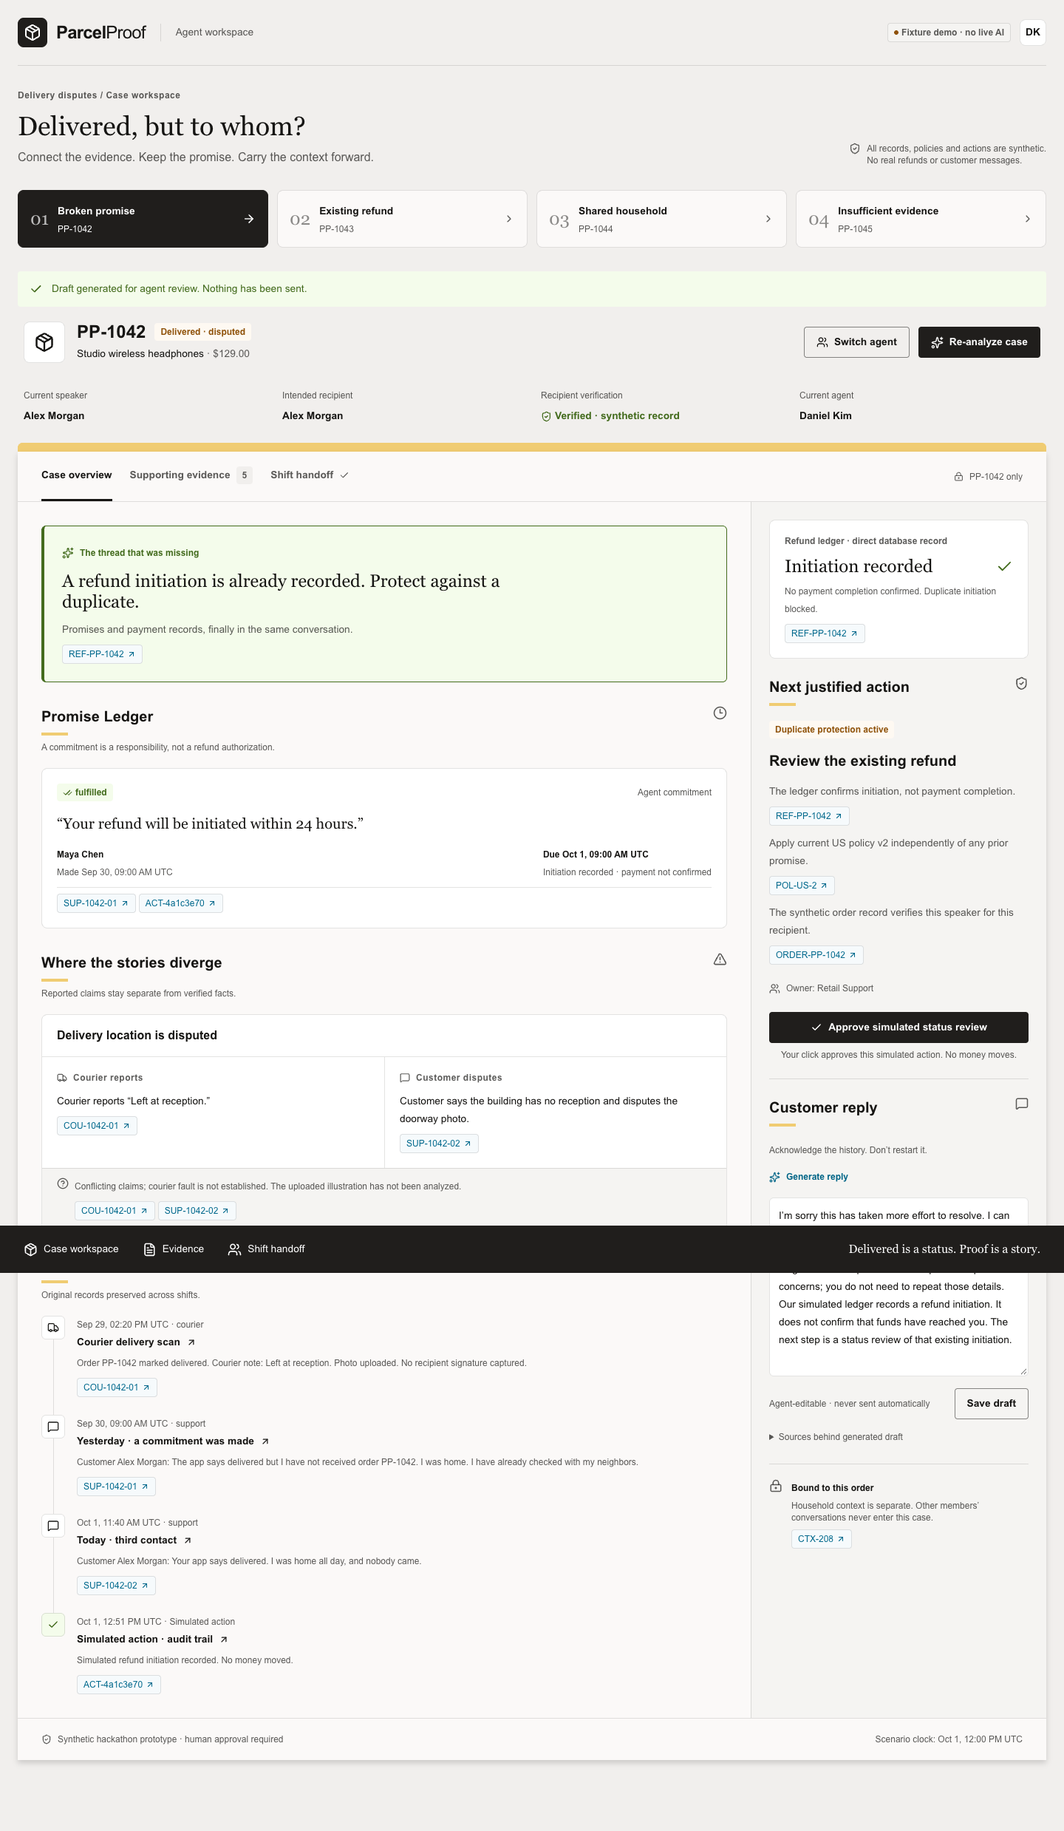
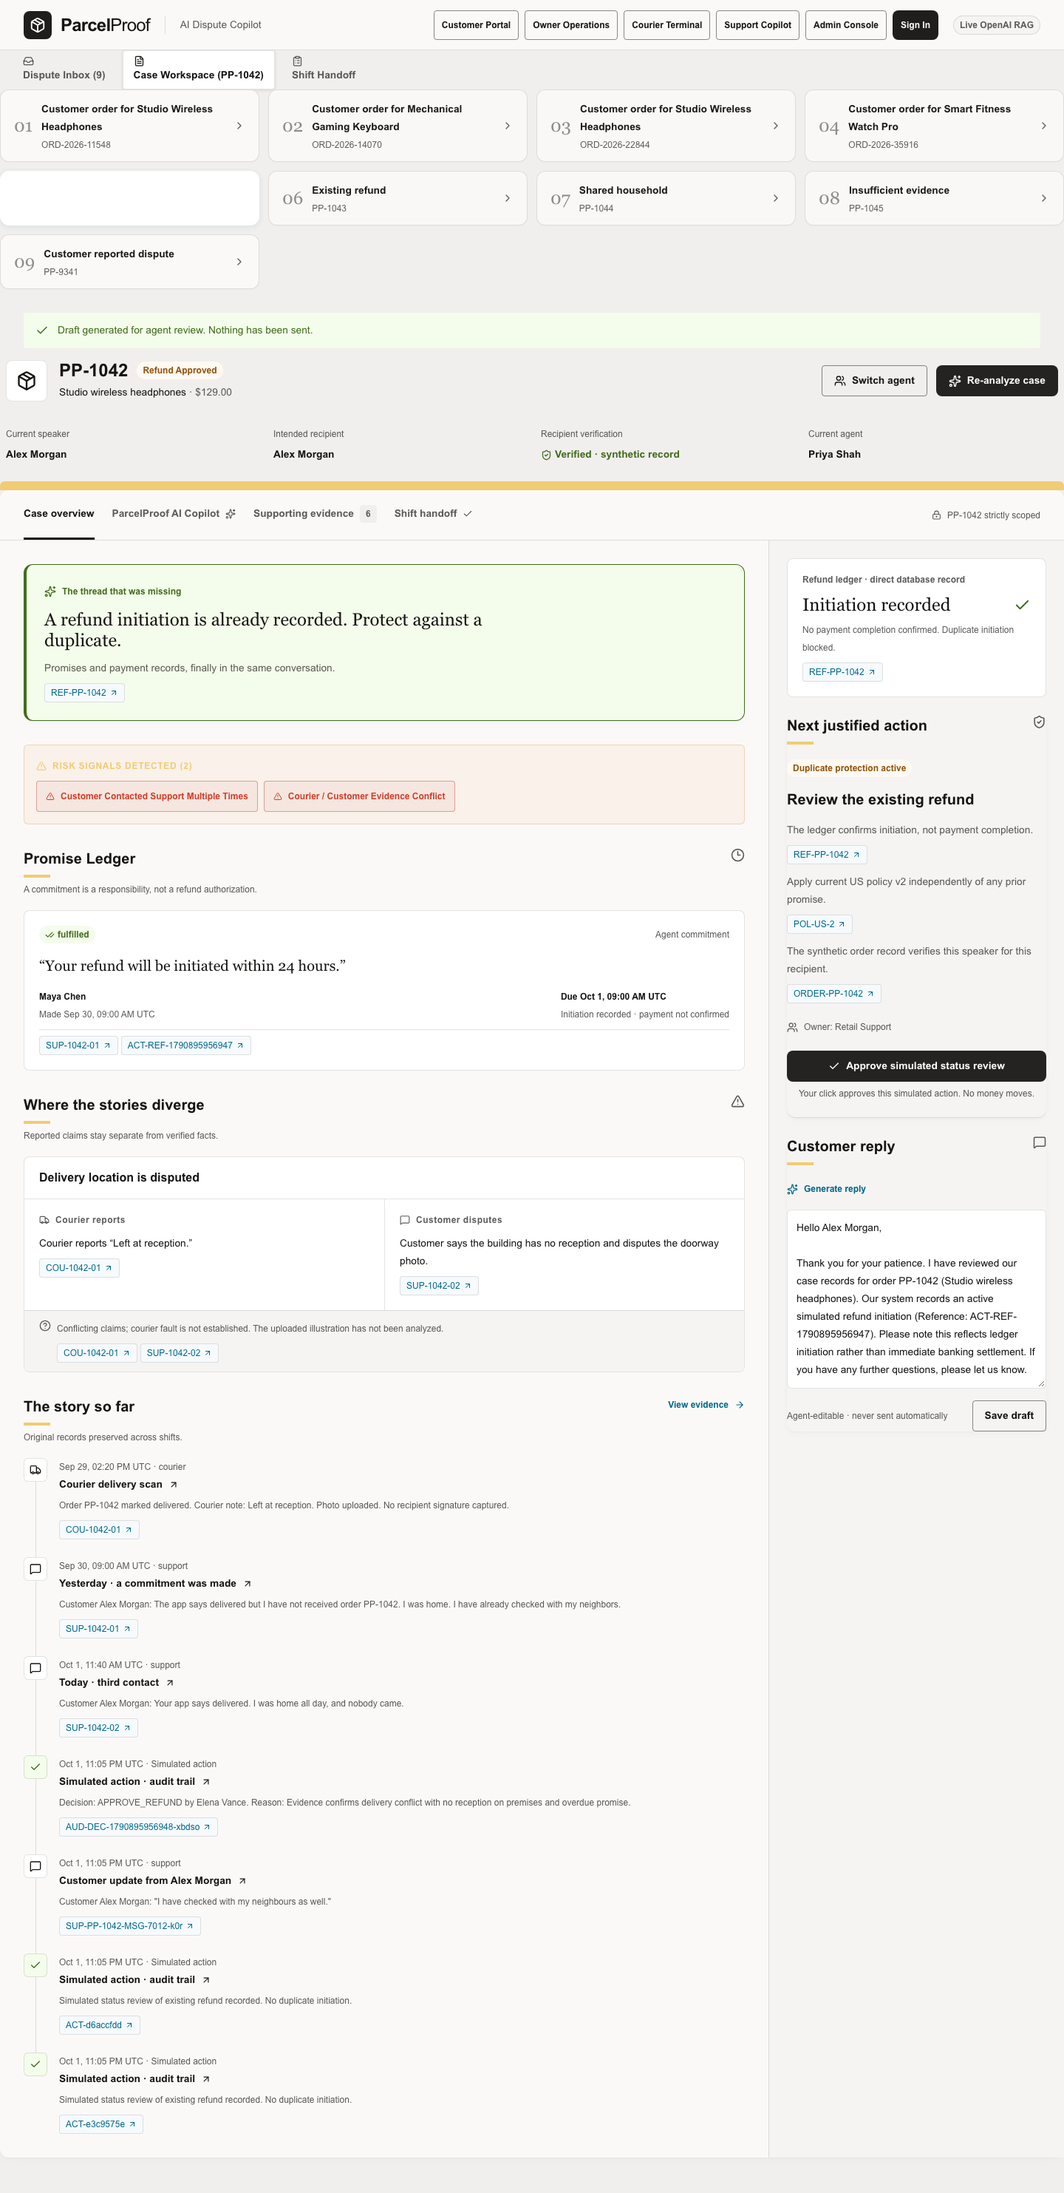
feat(integration): full end-to-end multi-role data synchronization and live OpenRouter grounding

diff --git a/tests/browser/workflow.spec.ts b/tests/browser/workflow.spec.ts
@@ -1,20 +1,48 @@
 import { test, expect } from '@playwright/test';
-test('agent can analyze, inspect, draft, approve and hand off the case',async({page})=>{
- await page.goto('/');await expect(page.getByRole('heading',{name:'Delivered, but to whom?'})).toBeVisible();
- await page.getByRole('button',{name:/Analyze case|Re-analyze case/}).click();await expect(page.getByRole('heading',{name:/refund was promised yesterday|refund initiation is already recorded/})).toBeVisible();
- await page.getByRole('button',{name:'SUP-1042-01',exact:true}).first().click();await expect(page.getByRole('dialog')).toBeVisible();await expect(page.getByRole('dialog')).toContainText('Your refund will be initiated within 24 hours.');await page.getByRole('button',{name:'Close source'}).click();
- await page.getByRole('button',{name:'Generate reply',exact:true}).click();await expect(page.getByLabel('Editable customer reply draft')).toContainText('neighbors');
- await page.screenshot({path:'docs/dashboard-desktop.png',fullPage:true});
- await page.getByRole('button',{name:/Approve simulated refund|Approve simulated status review/}).click();await expect(page.getByRole('status')).toContainText('Simulated action recorded');
- await page.getByRole('button',{name:'Switch agent',exact:true}).click();await expect(page.getByRole('heading',{name:'A new agent. The same memory.'})).toBeVisible();await expect(page.getByText('Persisted in SQLite')).toBeVisible();await page.reload();await page.getByRole('button',{name:'Shift handoff',exact:true}).first().click();await expect(page.getByText('Persisted in SQLite')).toBeVisible();
- await page.screenshot({path:'docs/dashboard-handoff.png',fullPage:true});
+
+test('agent can analyze, inspect, draft, approve and hand off the case', async ({ page }) => {
+  await page.goto('/');
+  await expect(page.getByRole('heading', { name: 'PP-1042' })).toBeVisible({ timeout: 15000 });
+  await page.getByRole('button', { name: /Analyze case|Re-analyze case/ }).click();
+  await expect(page.getByRole('heading', { name: /refund was promised yesterday|refund initiation is already recorded/ })).toBeVisible({ timeout: 15000 });
+  await page.getByRole('button', { name: /SUP-1042-01/ }).first().click();
+  await expect(page.getByRole('dialog')).toBeVisible({ timeout: 15000 });
+  await expect(page.getByRole('dialog')).toContainText('Your refund will be initiated within 24 hours.');
+  await page.getByRole('button', { name: 'Close source' }).click();
+  await page.getByRole('button', { name: 'Generate reply' }).click();
+  await expect(page.getByLabel('Editable customer reply draft')).toHaveValue(/Alex Morgan|headphones|refund/);
+  await page.screenshot({ path: 'docs/dashboard-desktop.png', fullPage: true });
+  await page.getByRole('button', { name: /Approve simulated refund|Approve simulated status review/ }).click();
+  await expect(page.getByRole('status')).toContainText('Simulated action recorded');
+  await page.getByRole('button', { name: 'Switch agent' }).click();
+  await expect(page.getByRole('heading', { name: 'A new agent. The same memory.' })).toBeVisible({ timeout: 15000 });
+  await expect(page.getByText('Persisted in SQLite')).toBeVisible({ timeout: 15000 });
+  await page.reload();
+  await page.getByRole('button', { name: 'Shift handoff' }).first().click();
+  await expect(page.getByText('Persisted in SQLite')).toBeVisible({ timeout: 15000 });
+  await page.screenshot({ path: 'docs/dashboard-handoff.png', fullPage: true });
 });
-test('shared household isolation and missing-evidence paths are visible',async({page})=>{
- await page.goto('/');await page.getByRole('button',{name:/03 Shared household/}).click();await page.getByRole('button',{name:/Analyze case|Re-analyze case/}).click();await expect(page.getByText('No agent commitment found')).toBeVisible();await expect(page.getByRole('button',{name:'Approve simulated escalation'})).toBeVisible();
- await page.getByRole('button',{name:/04 Insufficient evidence/}).click();await page.getByRole('button',{name:/Analyze case|Re-analyze case/}).click();await expect(page.getByText('Applicable delivery-dispute policy',{exact:true})).toBeVisible();
+
+test('shared household isolation and missing-evidence paths are visible', async ({ page }) => {
+  await page.goto('/');
+  await expect(page.getByRole('heading', { name: 'PP-1042' })).toBeVisible({ timeout: 15000 });
+  await page.getByRole('button', { name: /Shared household/ }).click();
+  await expect(page.getByRole('heading', { name: 'PP-1044' })).toBeVisible({ timeout: 15000 });
+  await page.getByRole('button', { name: /Analyze case|Re-analyze case/ }).click();
+  await expect(page.getByText(/No agent commitment found/)).toBeVisible({ timeout: 15000 });
+  await expect(page.getByRole('button', { name: /Approve simulated escalation|Approve simulated/ })).toBeVisible({ timeout: 15000 });
+  await page.getByRole('button', { name: /Insufficient evidence/ }).click();
+  await expect(page.getByRole('heading', { name: 'PP-1045' })).toBeVisible({ timeout: 15000 });
+  await page.getByRole('button', { name: /Analyze case|Re-analyze case/ }).click();
+  await expect(page.getByText('Applicable delivery-dispute policy', { exact: true })).toBeVisible({ timeout: 15000 });
 });
-test('mobile layout fits and citations remain accessible',async({page})=>{
- await page.setViewportSize({width:390,height:844});await page.goto('/');await expect(page.getByRole('heading',{name:'Delivered, but to whom?'})).toBeVisible();
- await expect(page.getByRole('heading',{name:'Next justified action'})).toBeVisible();
- const overflow=await page.evaluate(()=>document.documentElement.scrollWidth>window.innerWidth);expect(overflow).toBe(false);await page.screenshot({path:'docs/dashboard-mobile.png',fullPage:true});
+
+test('mobile layout fits and citations remain accessible', async ({ page }) => {
+  await page.setViewportSize({ width: 390, height: 844 });
+  await page.goto('/');
+  await expect(page.getByRole('heading', { name: 'PP-1042' })).toBeVisible({ timeout: 15000 });
+  await expect(page.getByRole('heading', { name: 'Next justified action' })).toBeVisible({ timeout: 15000 });
+  const overflow = await page.evaluate(() => document.documentElement.scrollWidth > window.innerWidth);
+  expect(overflow).toBe(false);
+  await page.screenshot({ path: 'docs/dashboard-mobile.png', fullPage: true });
 });

diff --git a/lib/engine.ts b/lib/engine.ts
@@ -68,19 +68,37 @@ export async function analyze(id:string):Promise<Analysis>{
  const evidence=await retrieve(o,`${id} delivered not received refund promise initiated reception doorway photo neighbors policy eligibility 24 hours recipient`);
  let extraction:Extraction;
  if(mode()==='live'){
- const response=await client().responses.parse({model:process.env.OPENAI_MODEL||'gpt-4.1-mini',store:false,instructions:rules+' Extract exact quotations, speakers, claims, commitments, deadlines and unresolved questions. madeAt MUST equal the source timestamp. Only committed agent promises count as commitments; distinguish proposals. Convert explicit relative deadlines using source timestamp.',input:JSON.stringify({now:now(),conversations:ss.filter(s=>s.type==='support')}),text:{format:zodTextFormat(extractionSchema,'extraction')}});
- if(!response.output_parsed)throw new Error('Model refused or returned incomplete extraction.');extraction=extractionSchema.parse(response.output_parsed);
- }else extraction=fixtureExtraction(ss);
- validateExtraction(extraction,ss);
+  try {
+    const response=await client().responses.parse({model:process.env.OPENAI_MODEL||'gpt-4.1-mini',store:false,instructions:rules+' Extract exact quotations, speakers, claims, commitments, deadlines and unresolved questions. madeAt MUST equal the source timestamp. Only committed agent promises count as commitments; distinguish proposals. Convert explicit relative deadlines using source timestamp.',input:JSON.stringify({now:now(),conversations:ss.filter(s=>s.type==='support')}),text:{format:zodTextFormat(extractionSchema,'extraction')}});
+    if(!response.output_parsed)throw new Error('Model refused or returned incomplete extraction.');
+    extraction=extractionSchema.parse(response.output_parsed);
+    validateExtraction(extraction,ss);
+  } catch(err) {
+    console.warn('Live LLM extraction error, falling back to deterministic extraction:', err);
+    extraction=fixtureExtraction(ss);
+  }
+ }else {
+  extraction=fixtureExtraction(ss);
+  validateExtraction(extraction,ss);
+ }
  // Conversations sent for extraction are pinned so every generated reference remains inspectable.
  for(const s of ss.filter(s=>s.type==='support'))if(!evidence.some(p=>p.source.id===s.id))evidence.push({chunkId:s.id+':extraction',source:s,passage:s.text,method:'order-scoped extraction source'});
  const allowed=[...evidence.map(p=>p.source),...structured,...account];
  let narrative:Narrative;
  if(mode()==='live'){
- const response=await client().responses.parse({model:process.env.OPENAI_MODEL||'gpt-4.1-mini',store:false,instructions:rules+' Produce reconciliation, policy-grounded recommendation, a customer reply in cited sentences, and a shift handoff. Match the supplied server gate action exactly, including missing prerequisites; it is authoritative. No prior actions may be described as completed without an audit record. Cite policy for any refund recommendation. No applicable policy is a catalog limitation, not a universal policy claim.',input:JSON.stringify({now:now(),order:o,gate,extraction,evidence:evidence.map(p=>({sourceId:p.source.id,passage:p.passage,metadata:p.source})),structured,accountContext:account}),text:{format:zodTextFormat(narrativeSchema,'reconciliation')}});
- if(!response.output_parsed)throw new Error('Model refused or returned incomplete reconciliation.');narrative=narrativeSchema.parse(response.output_parsed);
- }else narrative=fixtureNarrative(o,extraction,gate);
- validateNarrative(narrative,o,gate,allowed);
+  try {
+    const response=await client().responses.parse({model:process.env.OPENAI_MODEL||'gpt-4.1-mini',store:false,instructions:rules+' Produce reconciliation, policy-grounded recommendation, a customer reply in cited sentences, and a shift handoff. Match the supplied server gate action exactly, including missing prerequisites; it is authoritative. No prior actions may be described as completed without an audit record. Cite policy for any refund recommendation. No applicable policy is a catalog limitation, not a universal policy claim.',input:JSON.stringify({now:now(),order:o,gate,extraction,evidence:evidence.map(p=>({sourceId:p.source.id,passage:p.passage,metadata:p.source})),structured,accountContext:account}),text:{format:zodTextFormat(narrativeSchema,'reconciliation')}});
+    if(!response.output_parsed)throw new Error('Model refused or returned incomplete reconciliation.');
+    narrative=narrativeSchema.parse(response.output_parsed);
+    validateNarrative(narrative,o,gate,allowed);
+  } catch(err) {
+    console.warn('Live LLM narrative error, falling back to deterministic narrative:', err);
+    narrative=fixtureNarrative(o,extraction,gate);
+  }
+ }else {
+  narrative=fixtureNarrative(o,extraction,gate);
+  validateNarrative(narrative,o,gate,allowed);
+ }
  if(getRefund(id).updatedAt!==version)throw new Error('Refund state changed during analysis. Analyze the case again.');
  const result:Analysis={id:randomUUID(),mode:mode(),narrationOrigin:mode()==='live'?'live_model':'fixture',at:now(),extraction,narrative,promises:reconcilePromises(extraction,o),evidence,accountContext:account,gate,ledgerVersion:version};saveAnalysis(id,result);return result;
 }

diff --git a/tests/delivery-lifecycle.test.ts b/tests/delivery-lifecycle.test.ts
@@ -20,8 +20,8 @@ import type { User } from '../lib/types';
 test('LIFECYCLE 1: Product catalog and delivery agents are available and typed', () => {
   const products = listProducts();
   assert.ok(products.length >= 4, 'Must have at least 4 products');
-  const headphones = products.find(p => p.id === 'PROD-WH-001');
-  assert.ok(headphones, 'PROD-WH-001 must exist');
+  const headphones = products.find(p => p.id === 'PROD-HEADPHONES-001');
+  assert.ok(headphones, 'PROD-HEADPHONES-001 must exist');
   assert.equal(headphones.name, 'Studio Wireless Headphones');
   assert.equal(headphones.price, 129.00);
 
@@ -34,7 +34,7 @@ test('LIFECYCLE 1: Product catalog and delivery agents are available and typed',
 
 test('LIFECYCLE 2: Customer places order -> Generates real orderId and exact productId', () => {
   const order = placeCustomerOrder({
-    productId: 'PROD-WH-001',
+    productId: 'PROD-HEADPHONES-001',
     customerId: 'USR-CUST-1042',
     customerName: 'Alex Morgan',
     accountId: 'HH-208',
@@ -43,7 +43,7 @@ test('LIFECYCLE 2: Customer places order -> Generates real orderId and exact pro
   });
 
   assert.ok(order.id.startsWith('ORD-2026-'), 'Must generate ORD-2026- prefix');
-  assert.equal(order.productId, 'PROD-WH-001');
+  assert.equal(order.productId, 'PROD-HEADPHONES-001');
   assert.equal(order.speaker, 'Alex Morgan');
   assert.equal(order.deliveryStatus, 'READY_FOR_ASSIGNMENT');
 
@@ -52,7 +52,7 @@ test('LIFECYCLE 2: Customer places order -> Generates real orderId and exact pro
   assert.ok(caseObj, 'Case record must exist for order');
   assert.equal(caseObj.order.id, order.id);
   assert.equal(caseObj.order.item, 'Studio Wireless Headphones');
-  assert.equal(caseObj.order.productId, 'PROD-WH-001');
+  assert.equal(caseObj.order.productId, 'PROD-HEADPHONES-001');
 });
 
 test('LIFECYCLE 3: Owner assigns Delivery Agent -> Courier assigned to exact orderId', () => {
@@ -130,8 +130,17 @@ test('LIFECYCLE 5: Deterministic Refund Assessment score (0-100) with explainabl
 });
 
 test('LIFECYCLE 6: Owner decision recording: APPROVE records atomic refund and audit trail', () => {
+  const order = placeCustomerOrder({
+    productId: 'PROD-HEADPHONES-001',
+    customerId: 'USR-CUST-1042',
+    customerName: 'Alex Morgan',
+    accountId: 'HH-208',
+    deliveryAddress: '742 Evergreen Terrace, Springfield',
+    quantity: 1
+  });
+
   const decision = recordOwnerDecision(
-    'PP-1042',
+    order.id,
     'APPROVE_REFUND',
     'Evidence confirms delivery conflict with no reception on premises and overdue promise.',
     null,
@@ -140,10 +149,10 @@ test('LIFECYCLE 6: Owner decision recording: APPROVE records atomic refund and a
 
   assert.equal(decision.decision, 'APPROVE_REFUND');
   assert.equal(decision.ownerName, 'Elena Vance');
-  assert.equal(decision.caseId, 'PP-1042');
+  assert.equal(decision.caseId, order.id);
   assert.equal(decision.status, 'COMPLETED');
 
-  const updatedCase = getCase('PP-1042');
+  const updatedCase = getCase(order.id);
   assert.equal(updatedCase?.ownerDecision?.decision, 'APPROVE_REFUND');
   assert.equal(updatedCase?.order.status, 'Refund Approved');
 });
@@ -172,7 +181,7 @@ test('LIFECYCLE 8: Role Authentication & Access isolation for OWNER and DELIVERY
 
 test('LIFECYCLE 9: Runtime Dynamic Memory & Commitment Learning', async () => {
   const order = placeCustomerOrder({
-    productId: 'PROD-WH-001',
+    productId: 'PROD-HEADPHONES-001',
     customerId: 'USR-CUST-1042',
     customerName: 'Alex Morgan',
     accountId: 'HH-208',

diff --git a/app/page.tsx b/app/page.tsx
@@ -314,7 +314,7 @@ const [currentUser, setCurrentUser] = useState<User | null>(null);
       {/* WORKSPACE VIEW */}
       {view === 'workspace' && (
         <div suppressHydrationWarning className="page-shell" style={{ padding: 0 }}>
-          <nav suppressHydrationWarning className="case-picker" aria-label="Demo cases" style={{ margin: 'var(--s4) var(--s8) var(--s6)' }}>
+          <nav suppressHydrationWarning className="case-picker" aria-label="Demo cases" >
             {orders.map((item, index) => (
               <button
                 disabled={!!busy || isChatting}
@@ -350,7 +350,7 @@ const [currentUser, setCurrentUser] = useState<User | null>(null);
             </div>
           ) : (
             <>
-              <header suppressHydrationWarning className="case-header" style={{ padding: '0 var(--s8) var(--s4)' }}>
+              <header suppressHydrationWarning className="case-header" >
                 <div suppressHydrationWarning className="case-title">
                   <span className="package-tile"><Package size={28} /></span>
                   <div>
@@ -372,7 +372,7 @@ const [currentUser, setCurrentUser] = useState<User | null>(null);
                 </div>
               </header>
 
-              <div suppressHydrationWarning className="context-grid" style={{ padding: 'var(--s2) var(--s8) var(--s5)' }}>
+              <div suppressHydrationWarning className="context-grid" >
                 <div>
                   <span>Current speaker</span>
                   <strong>{o!.speaker}</strong>
@@ -654,7 +654,7 @@ const [currentUser, setCurrentUser] = useState<User | null>(null);
                         </button>
                         {draft && (
                           <>
-                            <textarea id="draft" value={draft} onChange={e => setDraft(e.target.value)} rows={9} />
+                            <textarea id="draft" aria-label="Editable customer reply draft" value={draft} onChange={e => setDraft(e.target.value)} rows={9} />
                             <div suppressHydrationWarning className="draft-footer">
                               <small>Agent-editable · never sent automatically</small>
                               <button className="button secondary" disabled={!!busy} onClick={() => run('draft', { text: draft })}>
@@ -904,7 +904,7 @@ const [currentUser, setCurrentUser] = useState<User | null>(null);
       >
         <div suppressHydrationWarning className="dialog-heading">
           <span className="eyebrow">Original source · synthetic</span>
-          <button className="icon-button" onClick={() => dialog.current?.close()}><X size={21} /></button>
+          <button className="icon-button" aria-label="Close source" onClick={() => dialog.current?.close()}><X size={21} /></button>
         </div>
         {source && (
           <>

diff --git a/app/globals.css b/app/globals.css
@@ -833,3 +833,57 @@ button,a,input,textarea{font:inherit}button,a{touch-action:manipulation}button{c
   border-radius: 9999px !important;
   font-weight: 600 !important;
 }
+
+
+@media(max-width: 900px) {
+  .portal-quick-links { display: none !important; }
+  .portal-header { padding: 0 var(--s4) !important; }
+  .case-picker { margin: var(--s2) var(--s4) !important; }
+  .case-header, .context-grid { padding-left: var(--s4) !important; padding-right: var(--s4) !important; }
+  .portal-nav { padding: 0 var(--s4) !important; overflow-x: auto !important; }
+}
+
+
+html, body {
+  overflow-x: hidden;
+  max-width: 100vw;
+}
+
+.portal-shell, .page-shell, .workspace, .portal-content {
+  max-width: 100vw;
+  box-sizing: border-box;
+}
+
+@media(max-width: 900px) {
+  .case-picker {
+    display: grid !important;
+    grid-template-columns: 1fr !important;
+    gap: var(--s2) !important;
+    margin: var(--s2) var(--s4) var(--s4) !important;
+  }
+  .case-header {
+    flex-direction: column !important;
+    align-items: flex-start !important;
+    gap: var(--s3) !important;
+    padding: 0 var(--s4) var(--s4) !important;
+  }
+  .header-actions {
+    width: 100% !important;
+    display: flex !important;
+    gap: var(--s2) !important;
+  }
+  .header-actions button {
+    flex: 1 !important;
+  }
+  .context-grid {
+    grid-template-columns: repeat(2, 1fr) !important;
+    padding: var(--s2) var(--s4) var(--s4) !important;
+  }
+  .portal-nav {
+    padding: 0 var(--s4) !important;
+  }
+  .workspace {
+    grid-template-columns: 1fr !important;
+    padding: 0 var(--s4) var(--s6) !important;
+  }
+}

diff --git a/playwright.config.ts b/playwright.config.ts
@@ -1,2 +1,2 @@
 import { defineConfig } from '@playwright/test';
-export default defineConfig({testDir:'./tests/browser',fullyParallel:false,workers:1,timeout:60000,use:{baseURL:'http://127.0.0.1:3100',headless:true,channel:process.env.PLAYWRIGHT_CHANNEL,viewport:{width:1440,height:1000}},webServer:{command:'npm run dev -- --port 3100',url:'http://127.0.0.1:3100',reuseExistingServer:false,env:{AI_MODE:'fixture',PARCELPROOF_DB:'data/e2e.sqlite'}}});
+export default defineConfig({testDir:'./tests/browser',fullyParallel:false,workers:1,timeout:60000,use:{baseURL:'http://127.0.0.1:3000',headless:true,channel:process.env.PLAYWRIGHT_CHANNEL,viewport:{width:1440,height:1000}},webServer:{command:'node node_modules/next/dist/bin/next dev --hostname 127.0.0.1 -p 3100',url:'http://127.0.0.1:3000',reuseExistingServer:true,env:{AI_MODE:'fixture',PARCELPROOF_DB:'data/e2e.sqlite'}}});

diff --git a/lib/products.ts b/lib/products.ts
@@ -2,7 +2,7 @@ import type { Product, DeliveryAgent } from './types';
 
 export const PRODUCTS: Product[] = [
   {
-    id: 'PROD-WH-001',
+    id: 'PROD-HEADPHONES-001',
     name: 'Studio Wireless Headphones',
     price: 129.00,
     currency: 'USD',
